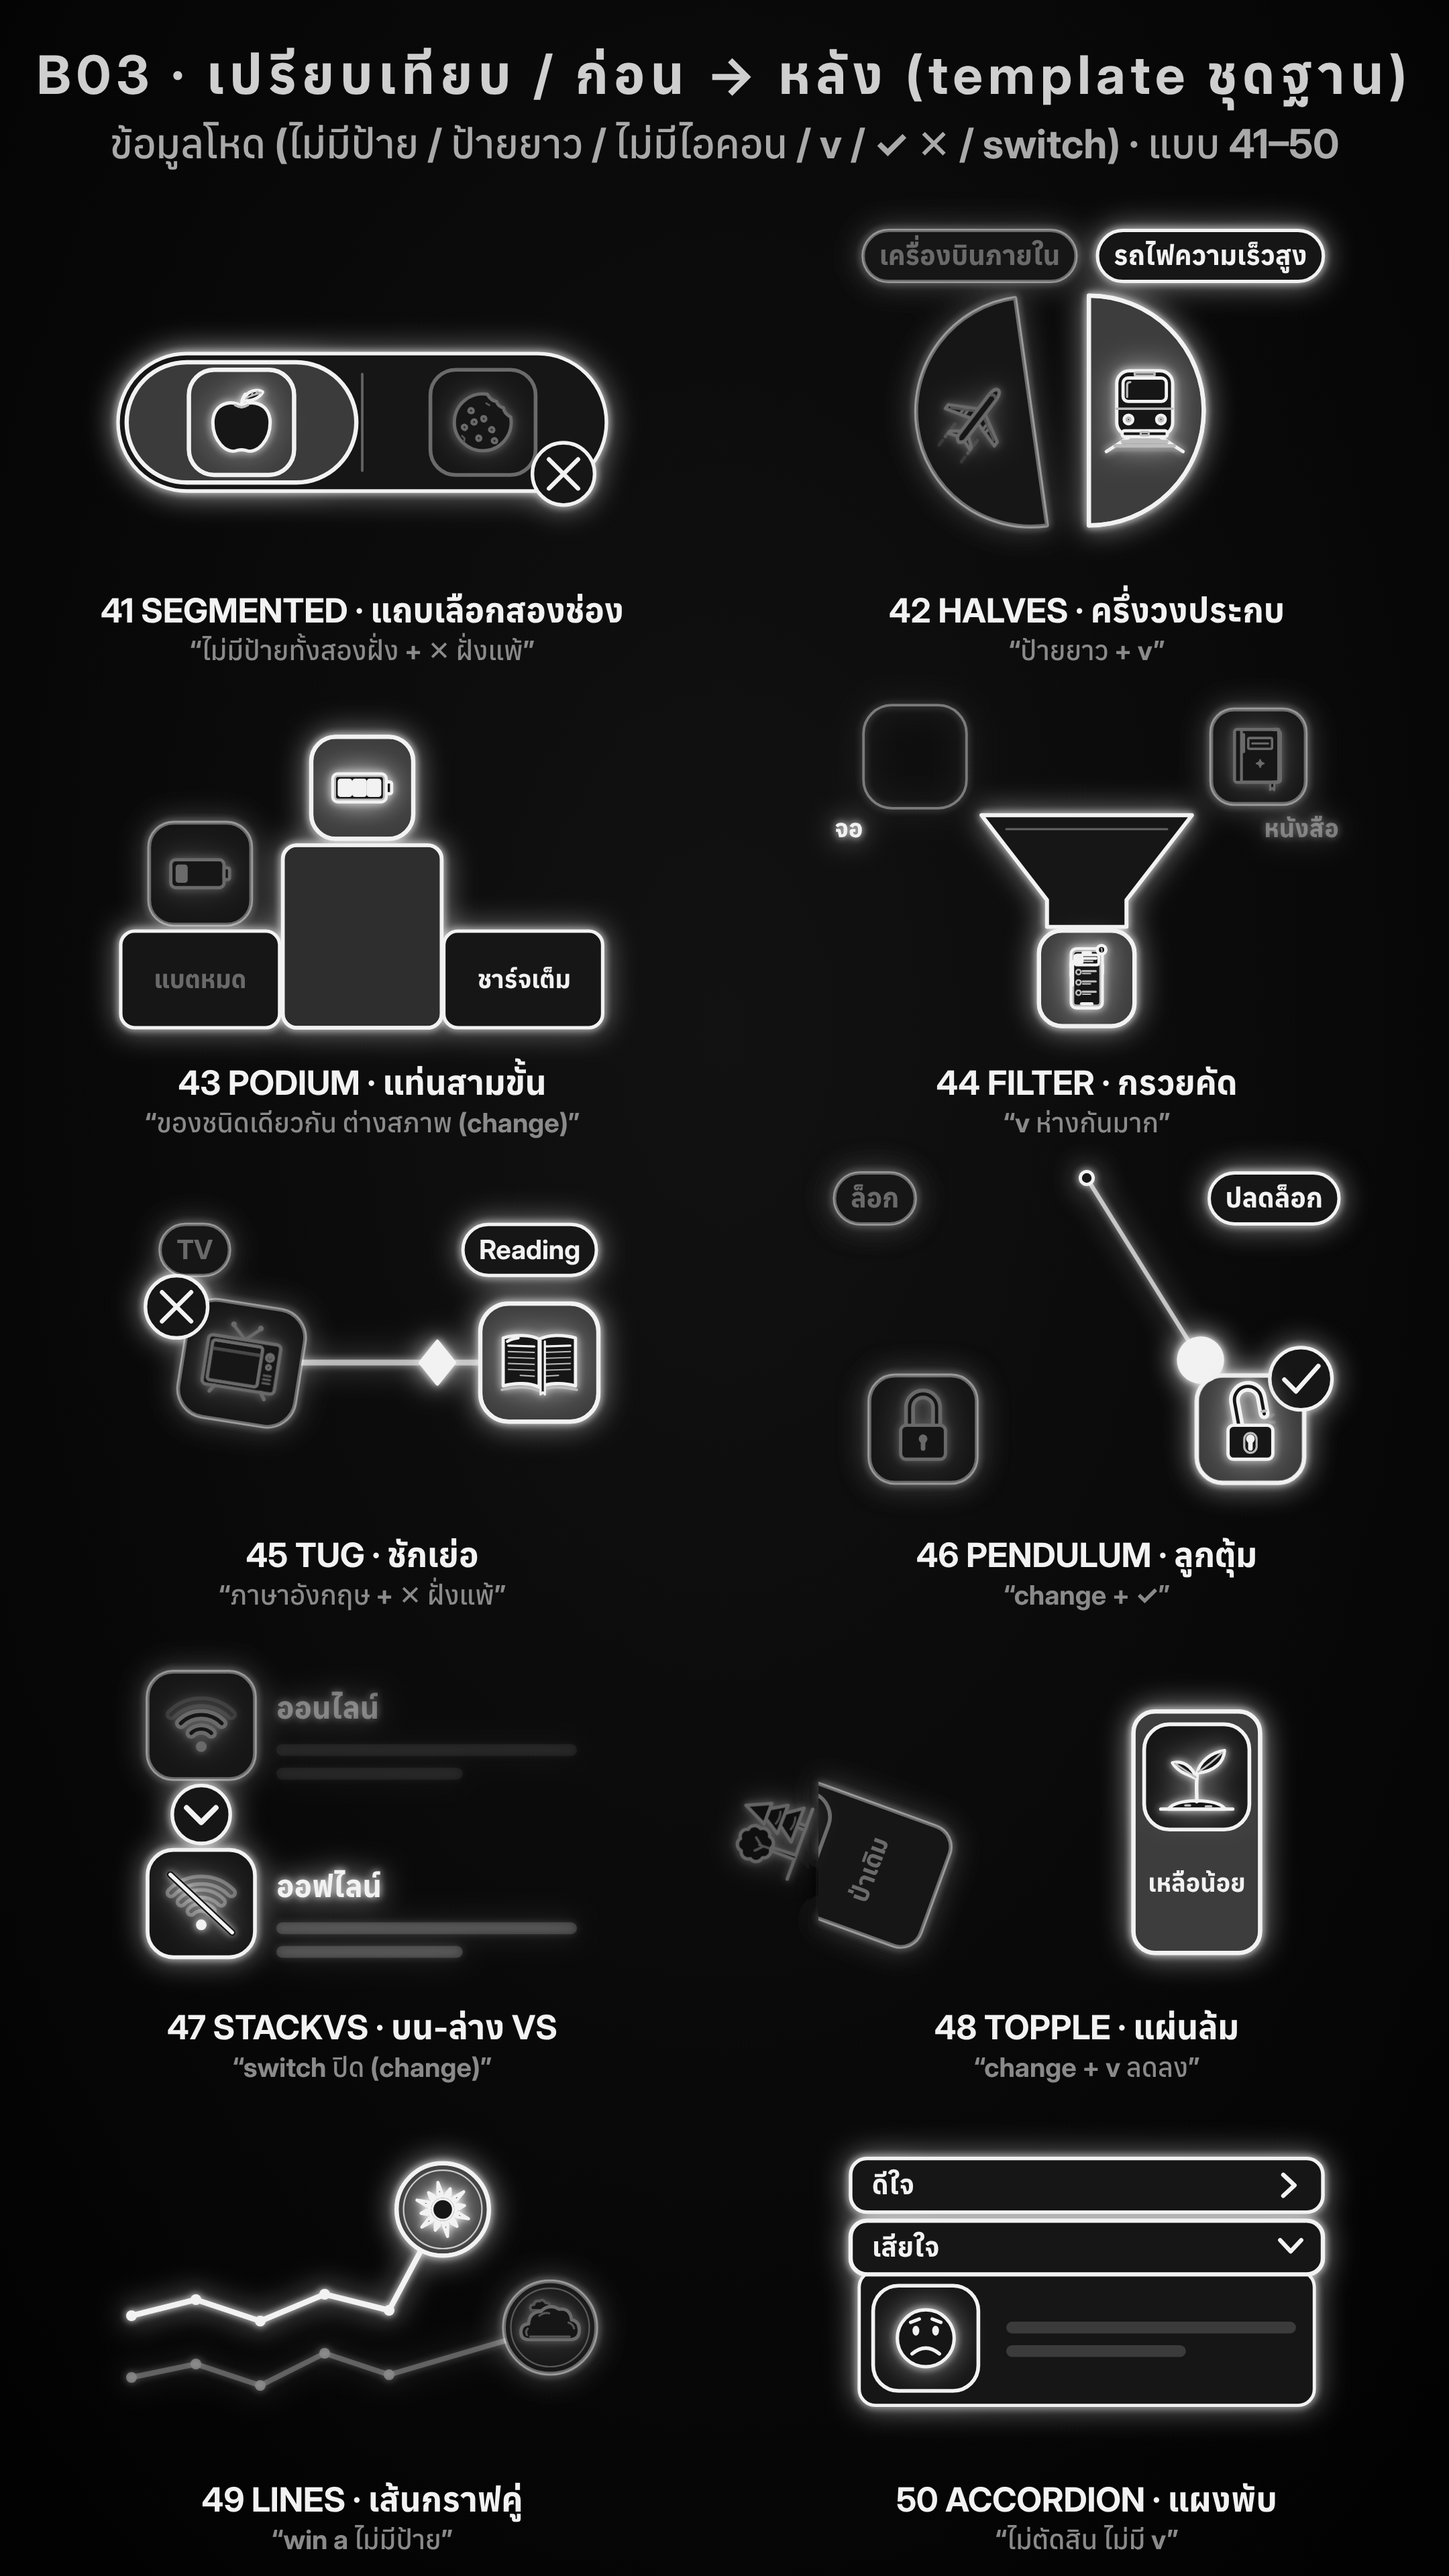
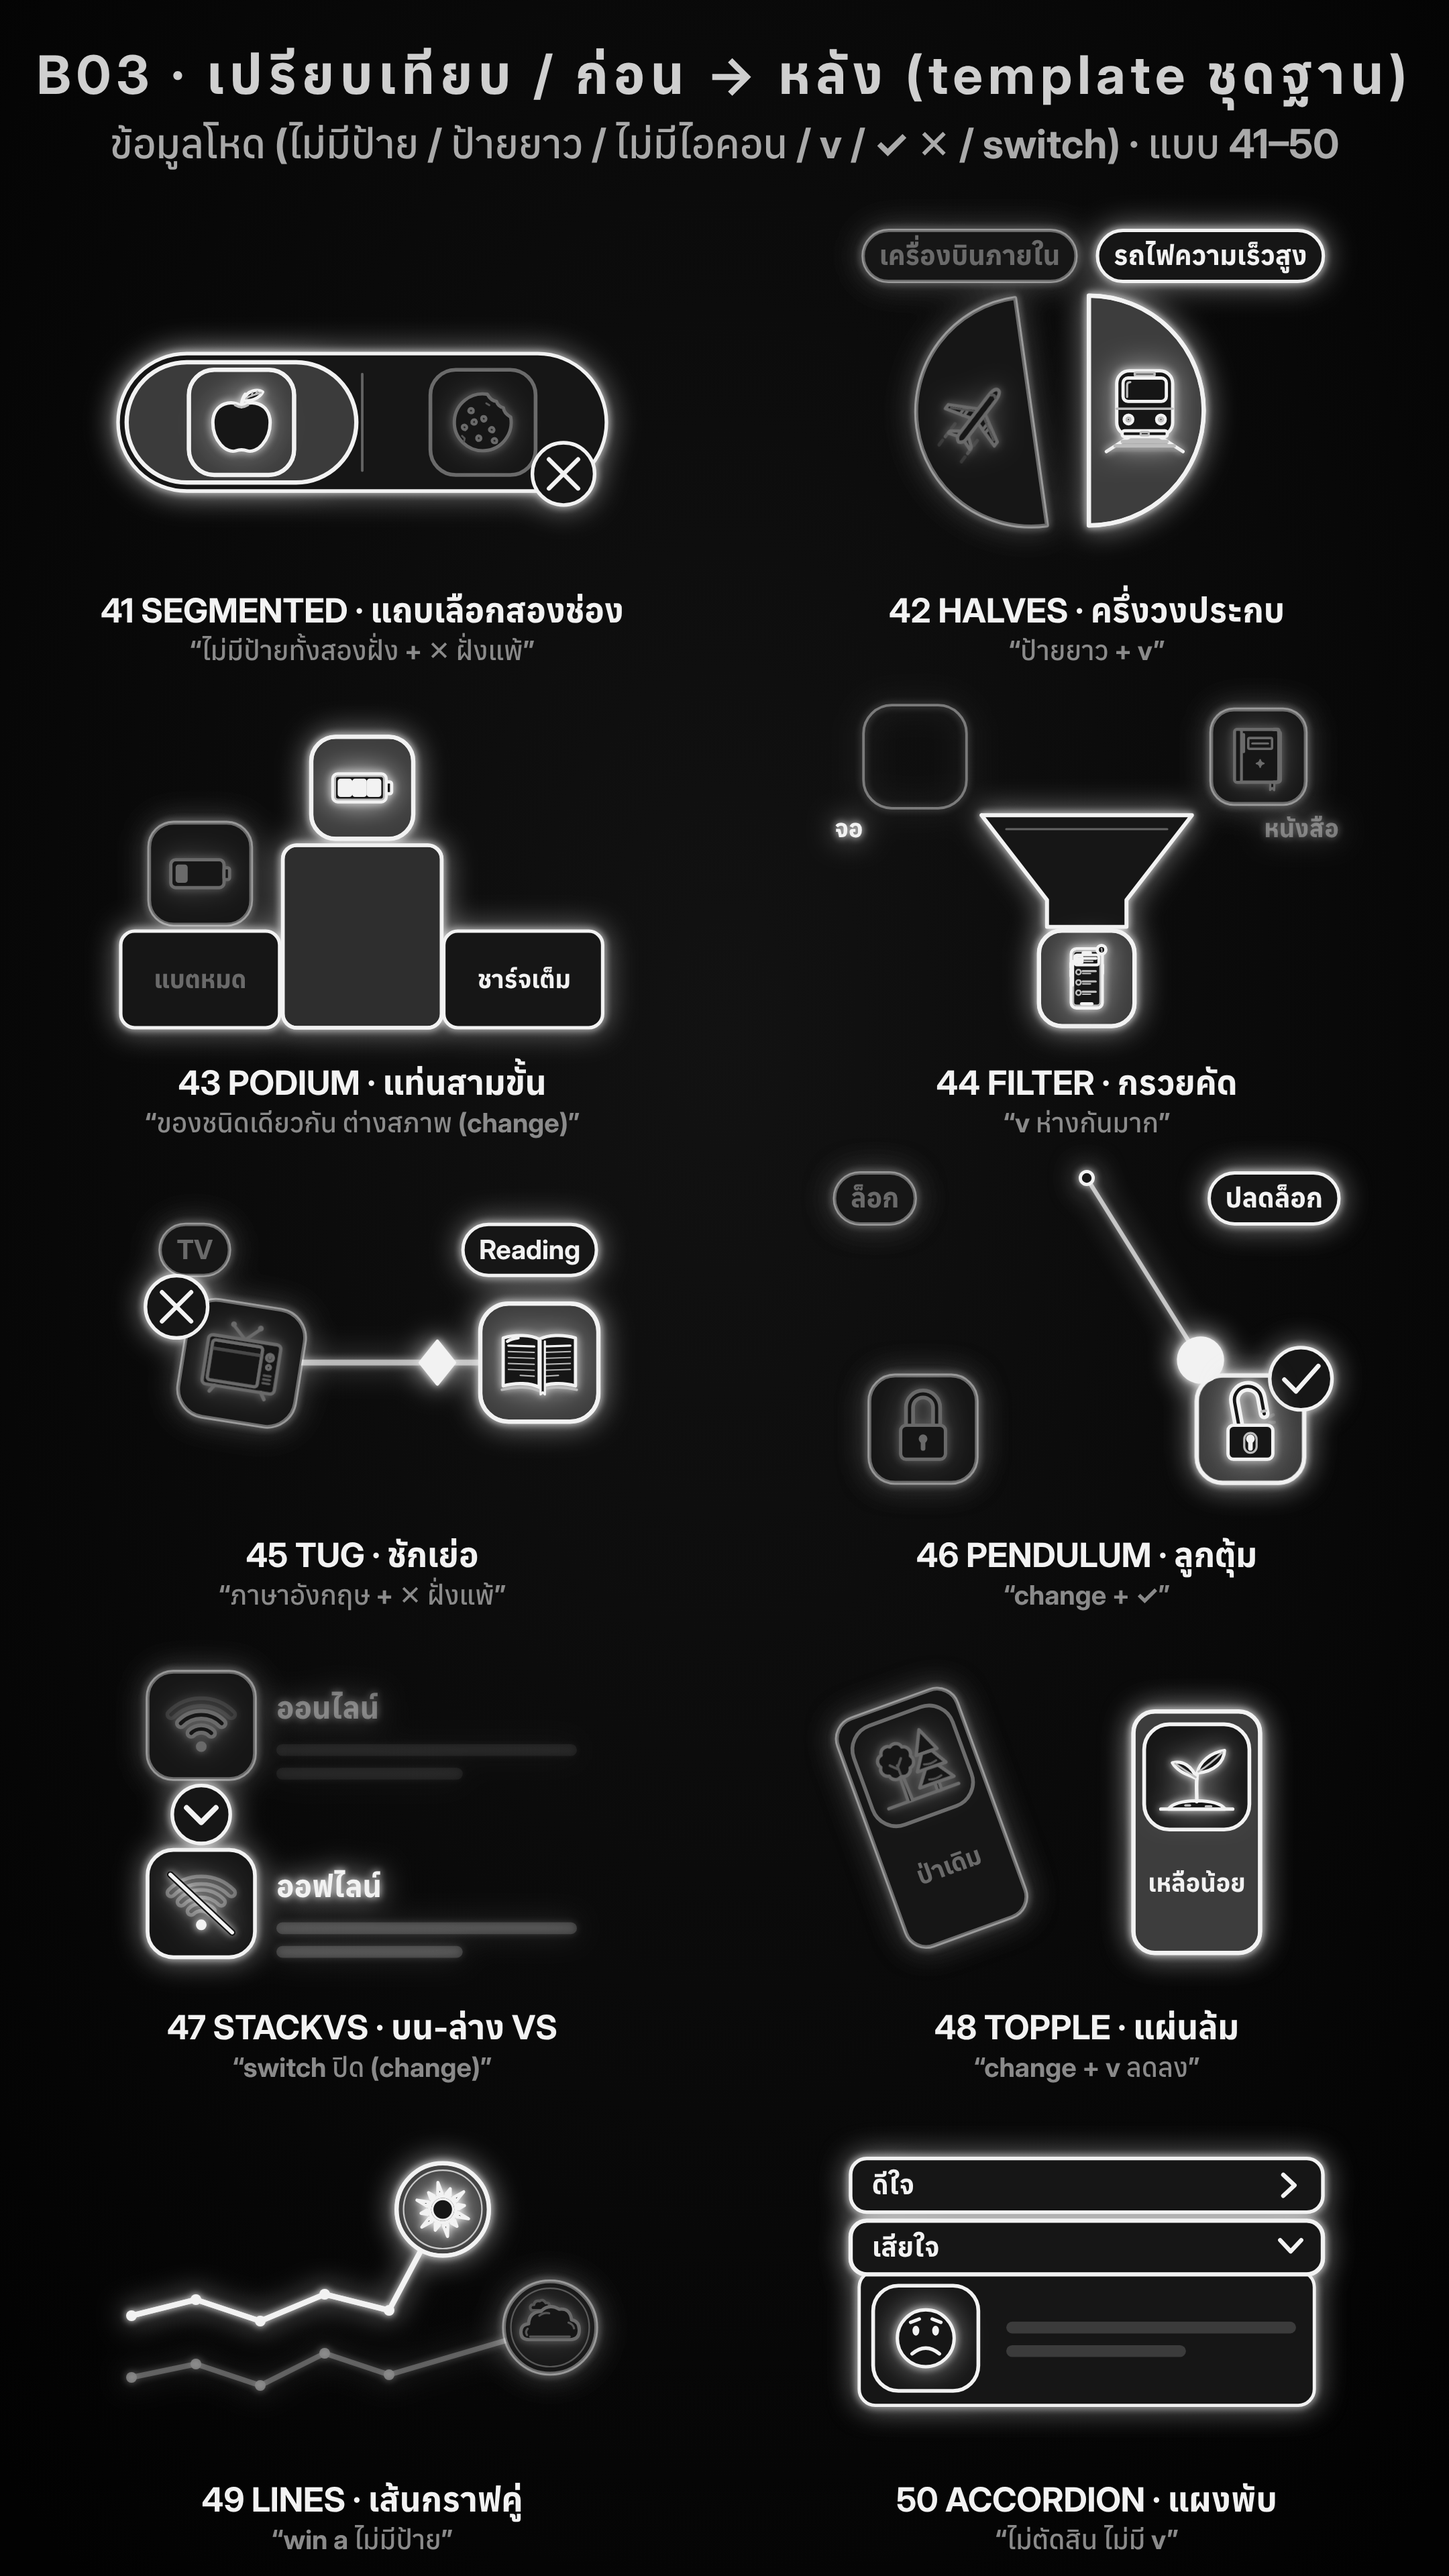
glow-line-motion: B03T 48 topple — ฝั่งแพ้เอน 20° อยู่ในผืน (ไม่ล้นขอบ)
Claude-Session: https://claude.ai/code/session_014abtgsBLm7RK8cFi6tidcy

Changed region(s): [[0.4963, 0.6562, 0.7134, 0.7812]]

diff --git a/.claude/skills/glow-line-motion/examples/b03t/b03t.js b/.claude/skills/glow-line-motion/examples/b03t/b03t.js
@@ -1261,15 +1261,15 @@
     }); });
 
   /* 48 ── TOPPLE (แผ่นล้ม): two tall tiles drop in and stand (each: its icon box, its word below in the tile); they rock while weighed, and on H the
-     loser topples over outward and fades, the winner stands and lights. No winner → both stand */
+     loser tips back on its outer corner (20°, kept inside the canvas) and fades, the winner stands and lights. No winner → both stand */
   variant('topple', 'แผ่นล้ม', (d, c) => { const T = ST(d), TW = 236, TH = 450, Y0 = -186, Y1 = 264, X = { a: -205, b: 205 }, bs = 196;
     art(c, p => { const H = Z.H; SIDES.forEach(s => { const x = X[s], sd = s === 'a' ? -1 : 1, t = tIn(d, s), t1 = f3(t + tu(.28)), lose = s === T.lose, win = s === T.win && !T.off, pv = [x + sd * TW / 2, Y1];
-        const K = fallK(pv[0], pv[1], t, t1, 560); K.r = wob(f3(Math.max(t1 + tu(.3), H - tu(.6))), f3(H - tu(.02)), 2.5, 4).concat(lose ? [[f3(H + tu(.36)), sd * 72, 'in'], [f3(H + tu(.44)), sd * 66, 'out'], [f3(H + tu(.52)), sd * 70, 'soft']] : []);
+        const K = fallK(pv[0], pv[1], t, t1, 560); K.r = wob(f3(Math.max(t1 + tu(.3), H - tu(.6))), f3(H - tu(.02)), 2.5, 4).concat(lose ? [[f3(H + tu(.26)), sd * 23, 'in'], [f3(H + tu(.36)), sd * 18, 'out'], [f3(H + tu(.46)), sd * 20, 'soft']] : []);
         const g0 = mvG(CL(p), K); if (lose) R(g0, x - TW / 2, Y0, TW, TH, 40, BK); const g = lose ? dimG(g0, H) : g0; R(g, x - TW / 2, Y0, TW, TH, 40, F(4)); if (win) R(litOn(g, H), x - TW / 2, Y0, TW, TH, 40, LIT2());
-        dust(p, x, Y1, t1, 1.1); if (lose) dust(p, pv[0] + sd * TH * .9, Y1, f3(H + tu(.36)), 1);
+        dust(p, x, Y1, t1, 1.1); if (lose) dust(p, pv[0], Y1, f3(H + tu(.26)), .9);
         sbox(p, c, d, s, x, -64, bs, { g, mv: K, t, noDim: true, noLit: true, io: lose ? dimK(H) : undefined }); if (win) ripple(p, x, -64, 120, f3(H + tu(.06)));
         word(p, d, s, x, 150, { g, size: 46, maxW: TW - 40, noDim: true, t: f3(t1 + tu(.06)) }); });
-      const at = s => { const x = X[s], sd = s === 'a' ? -1 : 1; if (s !== T.lose) return corner(x, Y0 + 100, 200, sd); const q = rotP(x - sd * (TW / 2 - 30), Y0 + 30, x + sd * TW / 2, Y1, sd * 70); return [Math.max(-440, Math.min(440, q[0])), q[1]]; };
+      const at = s => { const x = X[s], sd = s === 'a' ? -1 : 1; if (s !== T.lose) return corner(x, Y0 + 100, 200, sd); return rotP(x - sd * (TW / 2 - 40), Y0 + 40, x + sd * TW / 2, Y1, sd * 20); };
       verdict(p, d, { a: at('a'), b: at('b') });
     }); });
 

diff --git a/.claude/skills/glow-line-motion/HANDOFF.md b/.claude/skills/glow-line-motion/HANDOFF.md
@@ -199,7 +199,7 @@
   **รอบ 2 (ผู้ใช้: "ทำรอบ 2 ต่อได้") = แบบ 26–50**, แผ่น `sheet-A4/A5` / `B4/B5` (A3/B3 = แบบ 21–30): 26 deck การ์ดซ้อนเหลื่อม · 27 radio ตัวเลือกวงกลม ·
   28 timeline เส้นเวลาแนวตั้ง (texts) · 29 arrow ลูกศรใหญ่ · 30 matrix ตาราง 2×2 · 31 bracket สายแข่ง · 32 lift รางขึ้นลง · 33 meters แถบขั้นตั้ง · 34 target เป้าวงซ้อน ·
   35 pip ภาพซ้อนมุม · 36 butterfly แถบกางปีก · 37 blocks ก้อนซ้อน · 38 wipe กรอบเลื่อนเทียบ · 39 pulse คลื่นสัญญาณ · 40 stars ดาวคะแนน · 41 segmented แถบเลือกสองช่อง ·
-  42 halves ครึ่งวงประกบ · 43 podium แท่นสามขั้น · 44 filter กรวยคัด · 45 tug ชักเย่อ · 46 pendulum ลูกตุ้ม · 47 stackvs บน-ล่าง VS (texts) · 48 topple แผ่นล้ม ·
+  42 halves ครึ่งวงประกบ · 43 podium แท่นสามขั้น · 44 filter กรวยคัด · 45 tug ชักเย่อ · 46 pendulum ลูกตุ้ม · 47 stackvs บน-ล่าง VS (texts) · 48 topple แผ่นล้ม (ผู้ใช้ถาม "ตั้งใจหรือผิดพลาด" — ล้ม 70° เลยขอบผืน กรอบโดนตัดแต่ไอคอนไม่โดนตัด → ไอคอนโผล่นอกแผ่น = พลาด; แก้เป็นเอนหงาย 20° อยู่ในผืนทั้งชิ้น. บทเรียน: ไอคอนไม่โดน CL ตัด — ของที่มีไอคอนต้องอยู่ในผืนทั้งชิ้น) ·
   49 lines เส้นกราฟคู่ · 50 accordion แผงพับ (texts). helper เพิ่ม: `phaseK()` `posK()` (ลำดับ a → b → ผู้ชนะ) · `litTimes()` (ติดไฟทีละช่อง เท่ากันก่อน H) · `starD()` · `arrowD()`.
   ตรวจธีม = 0 ทุกแผ่น (สคริปต์: โหลดแผ่นพร้อม `GL.theme` ส้ม → `setT(4.2)` → นับ fill/stroke สีเทา/ขาว). **บทเรียน: BK ใต้ชิ้นที่จางต้องวาดก่อนสร้าง `dimG()`**
   (สร้าง dimG ก่อนแล้ววาด BK ทีหลัง = BK ทับทั้งกลุ่ม ตัวหนังสือหาย) · ส่วนที่ "สว่าง" เป็นพื้นใหญ่ (สามเหลี่ยมครึ่งจอ) ดูเป็นก้อนเทาหนัก → ไม่ใช้.
